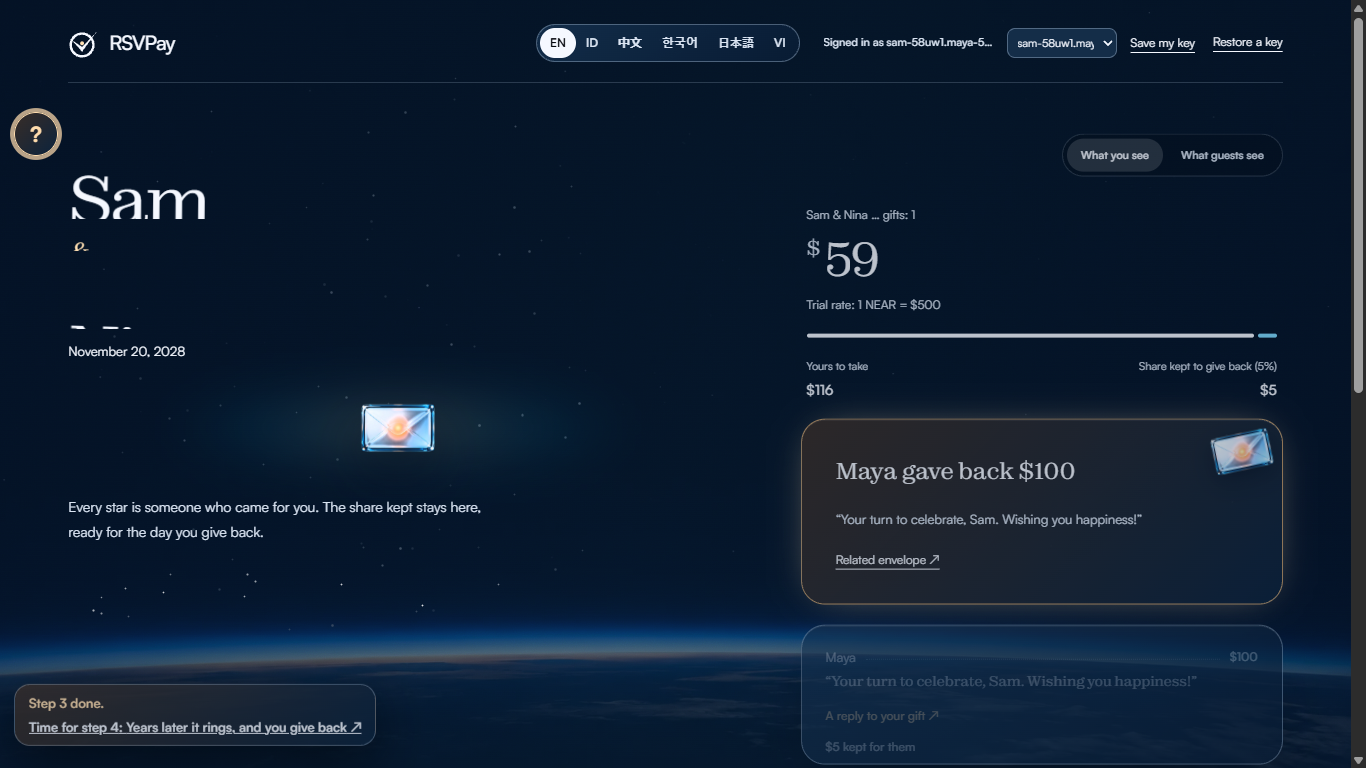
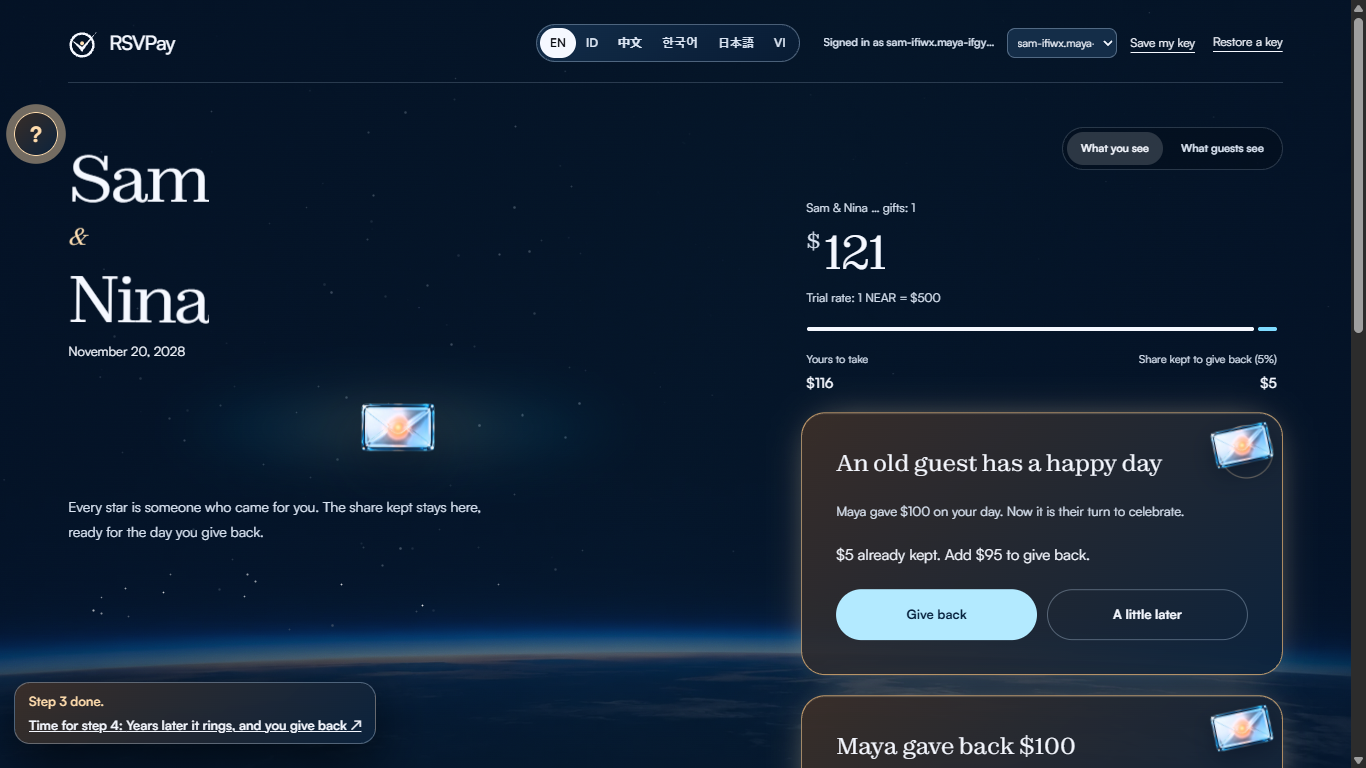
One uncut take of the live site; fresh live story run with the holder gate

diff --git a/README.md b/README.md
@@ -8,7 +8,7 @@
 
 [![CI](https://github.com/Stylenexy/rsvpay/actions/workflows/ci.yml/badge.svg)](https://github.com/Stylenexy/rsvpay/actions/workflows/ci.yml) [![Sandbox](https://github.com/Stylenexy/rsvpay/actions/workflows/sandbox.yml/badge.svg)](https://github.com/Stylenexy/rsvpay/actions/workflows/sandbox.yml) [![License: MIT](https://img.shields.io/badge/license-MIT-blue)](LICENSE) [![Network](https://img.shields.io/badge/NEAR-testnet-00BFFF)](https://testnet.nearblocks.io/address/rsvpay-v2.testnet) ![Access keys](https://img.shields.io/badge/access%20keys-0-2ea44f) ![Live attack checks](https://img.shields.io/badge/live%20attack%20checks-14%2F14%20pass-2ea44f)
 
-**[Try the whole story, about 40 s on testnet](https://rsvpay.xyz/#/coba)** · **[Open the site](https://rsvpay.xyz)** · **[Watch the pitch, 1 min 54 s](https://rsvpay.xyz/media/rsvpay-pitch.mp4)**
+**[Try the whole story, about 40 s on testnet](https://rsvpay.xyz/#/coba)** · **[Open the site](https://rsvpay.xyz)** · **[Watch the pitch, 1 min 54 s](https://rsvpay.xyz/media/rsvpay-pitch.mp4)** · **[Watch one uncut take, 1 min 17 s](https://rsvpay.xyz/media/rsvpay-one-take.mp4)**
 
 </div>
 
@@ -134,6 +134,8 @@ The browser requests one throwaway account for Maya from a small testnet purse (
 Each completed transaction has a receipt link and a measured duration. The end shows elapsed time including your pause, plus the sum of measured steps. The target is 60 seconds; five live checks on today's contract took between 34.8 s and 41.8 s including the pause ([runs](docs/evidence/coba-e2e-runs.txt), last run in [coba-e2e-report.txt](docs/evidence/coba-e2e-report.txt)). Network latency and helper availability affect it.
 
 If the helper refuses the request, the page says so and offers **View recorded run**. This is explicitly a past run from 3 November 2026, with the four hashes in [measured-testnet.txt](docs/evidence/measured-testnet.txt). That evidence contains opening, giving, replying and withdrawing; it does not contain Sam's opening receipt.
+
+One uncut take of the live site, recorded by a script on 14 November ([`frontend/e2e/klip.e2e.mjs`](frontend/e2e/klip.e2e.mjs)): the whole story, the envelope passed on with its receipt, the old holder's controls gone, and the new holder's signed check opening the inherited book and its history. Captions are drawn over the page only in the recording: [rsvpay-one-take.mp4](https://rsvpay.xyz/media/rsvpay-one-take.mp4), 1 min 17 s, no edits except the first two seconds of blank page.
 
 To watch instead of waiting on the network, open **How it works** on any inner page and press **Show me, step by step**. The site types the names, opens the book, gives, rings and gives back on its own, then says the demo is finished. That demo runs on a rehearsal client in your browser with play money, and it is labelled as a rehearsal on screen. The button above is the one that uses real testnet.
 

diff --git a/CHANGELOG.md b/CHANGELOG.md
@@ -5,6 +5,7 @@ What changed, by day. The project started on 3 November 2026. Commit messages ar
 ## 2026-11-14
 
 ### Added
+- One uncut take of the live site, 1 min 17 s (`frontend/e2e/klip.e2e.mjs`, served at `/media/rsvpay-one-take.mp4`). Fresh live run of the one-button story with the holder gate: all 15 checks pass, 39.1 s (`docs/evidence/coba-e2e-report.txt`).
 - Holder gate: the book page opens only after the browser proves it holds a key the chain lists for the envelope's current NEP-171 owner, by a fresh NEP-413 signature (`frontend/src/chain/holder.ts`, six tests, live check `docs/evidence/holder-gate-check.txt`). No layout change; while the check runs the page shows its usual loading state.
 - README: a six-row table of the track requirements and their evidence at the top.
 - Check P6 in `scripts/transfer-checks.mjs`: a sale in the middle of a payout with real receipts (withdraw and nft_transfer in one transaction, the seller's account deleted so the payout fails). On testnet on 14 November both lines passed; the Sandbox workflow runs it on every push.
